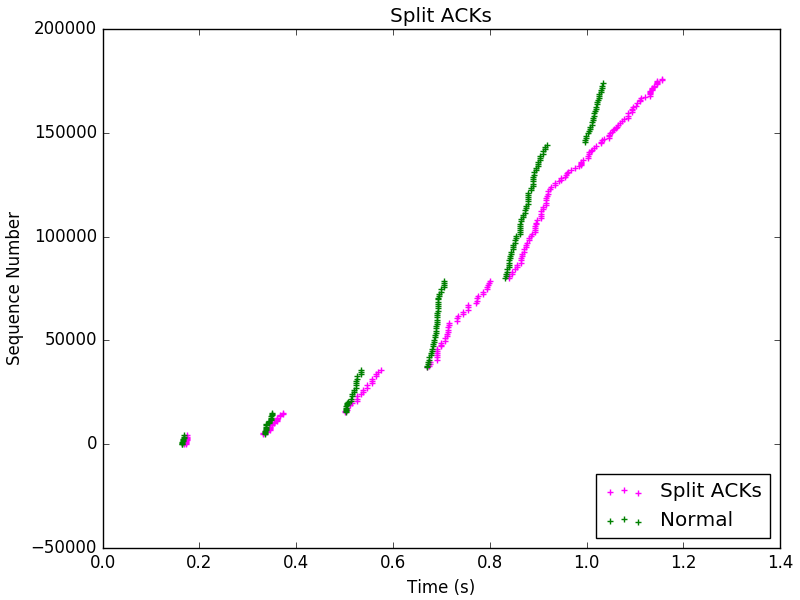
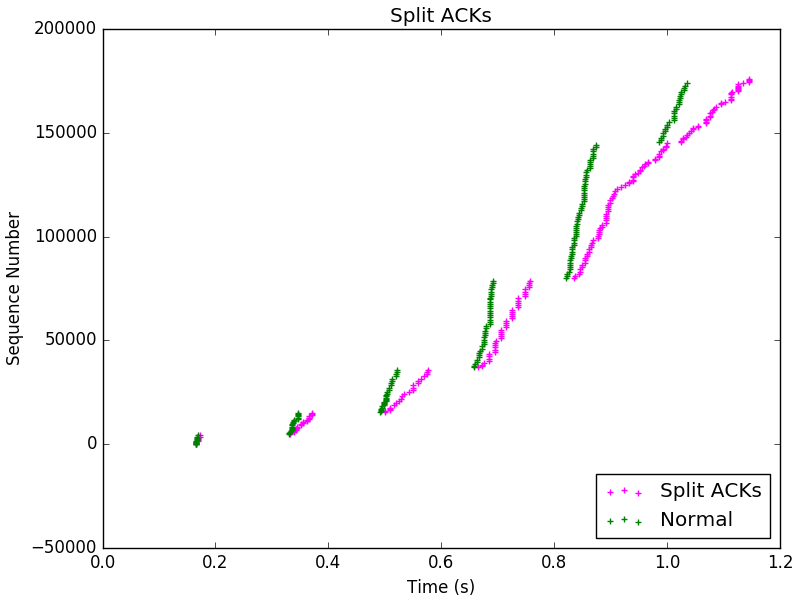
Working demo

diff --git a/topo.py b/topo.py
@@ -41,10 +41,10 @@ class NodeGenerator(Topo):
     # - RTT
     # - BW
     # - Queue size
-    self.addLink(server, switch, bw=200, delay="40ms",
-    	loss = 0, max_queue_size = 256)
-    self.addLink(client, switch, bw=200, delay="40ms",
-    	loss = 0, max_queue_size = 256)
+    self.addLink(server, switch, bw=500, delay="40ms",
+    	loss = 0, max_queue_size = 300)
+    self.addLink(client, switch, bw=500, delay="40ms",
+    	loss = 0, max_queue_size = 300)
     return
 
 

diff --git a/transmit.py b/transmit.py
@@ -113,8 +113,9 @@ def dup(pkt):
     return
   append(pkt)
 
-  for i in xrange(10):
+  for i in xrange(3):
     send_ACK_in_seq(pkt)
+
 
 
 ### Proper handling for packet with SPLIT attack.
@@ -126,6 +127,7 @@ def split(pkt) :
   
   for ACK_num in get_split_acks(pkt):
     send_ACK(pkt[TCP].ack, ACK_num)
+
 
 
 ### Proper handling for OP attacks.
